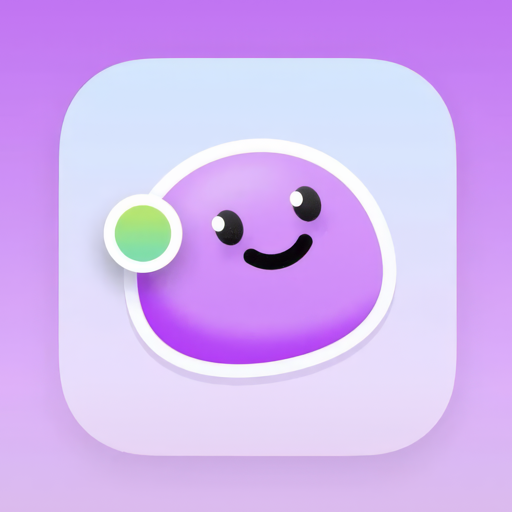
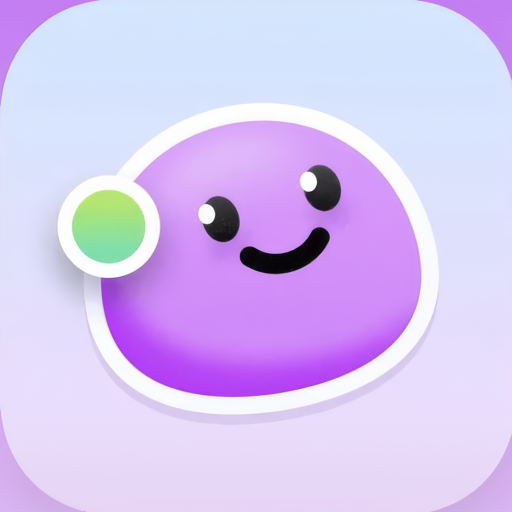
App-Symbol zugeschnitten: violetter Rand weg
Die Quelldatei zeigt die Symbolkachel auf violettem Hintergrund. Fuer
ein App-Symbol ist dieser Rand falsch — auf dem Startbildschirm soll
die Kachel selbst das Symbol sein.

Die Kanten sind gemessen, nicht geschaetzt: ueber die Saettigung, weil
die Kachel mit rund 0,19 deutlich blasser ist als das Violett mit 0,49.
Die Kachel liegt bei x 341–2673 und y 348–2680, also 9 px rechts und
6 px unter der Bildmitte.

Erster Versuch war ein zentrierter Zuschnitt auf 2334 px — dadurch blieb
an der linken und oberen Kante ein Haarstreifen Violett stehen, 10 bzw.
7 px breit. Nachgemessen und auf 2300 px verkleinert: jetzt liegen alle
vier Kantenmitten in der Kachel, oben das Periwinkle #D0E6FD, unten das
Lavendel #EAD1F7, Saettigung ueberall unter 0,18.

Was in den vier Ecken bleibt, liegt ausserhalb der Kachelrundung. Das
maskieren iOS und Android mit ihrer eigenen Rundung weg; in der
Gegenprobe mit der iOS-Maske ist nichts davon zu sehen.

icon-180.png und icon-512.png neu daraus gerechnet, exakt 180x180 und
512x512.

Geprueft: node --check sauber, 99 jsdom-Testfaelle laufen durch.

diff --git a/index.html b/index.html
@@ -4498,7 +4498,7 @@ function toast(msg, bleib){
    Am Handy hieß das: Änderungen sind da, aber man sieht sie nicht. Also
    fragt die App beim Start und beim Zurückkehren selbst nach — ohne
    Zwischenspeicher — und meldet sich, wenn etwas Neues bereitliegt. */
-const APP_STAND = '2026-09-13-1759';
+const APP_STAND = '2026-09-13-1843';
 let _updZeit = 0, _updBereit = false;
 async function pruefeStand(){
   if(_updBereit || Date.now() - _updZeit < 12e4) return;
